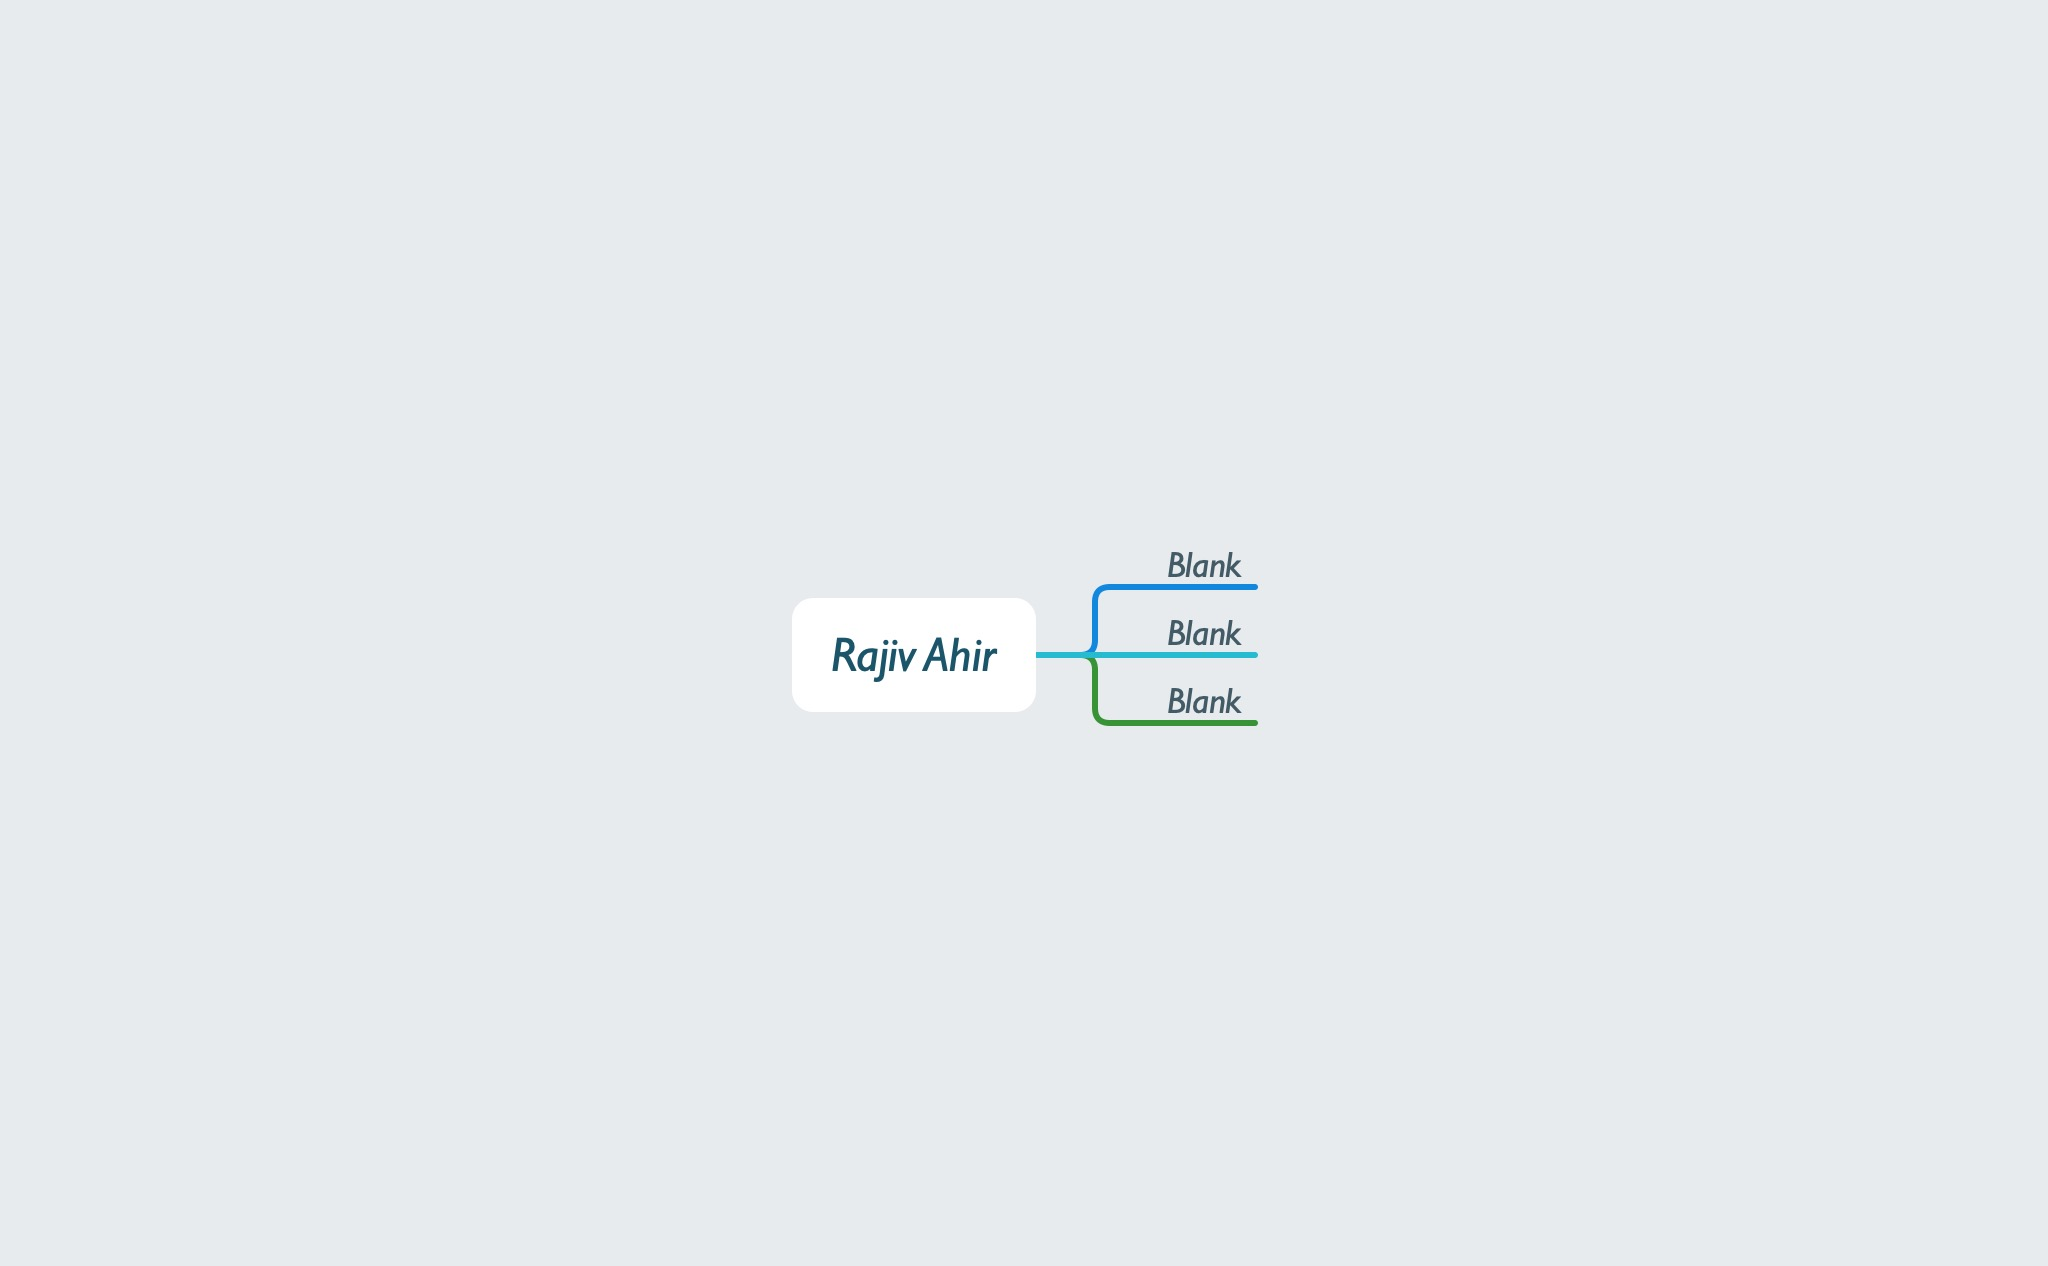
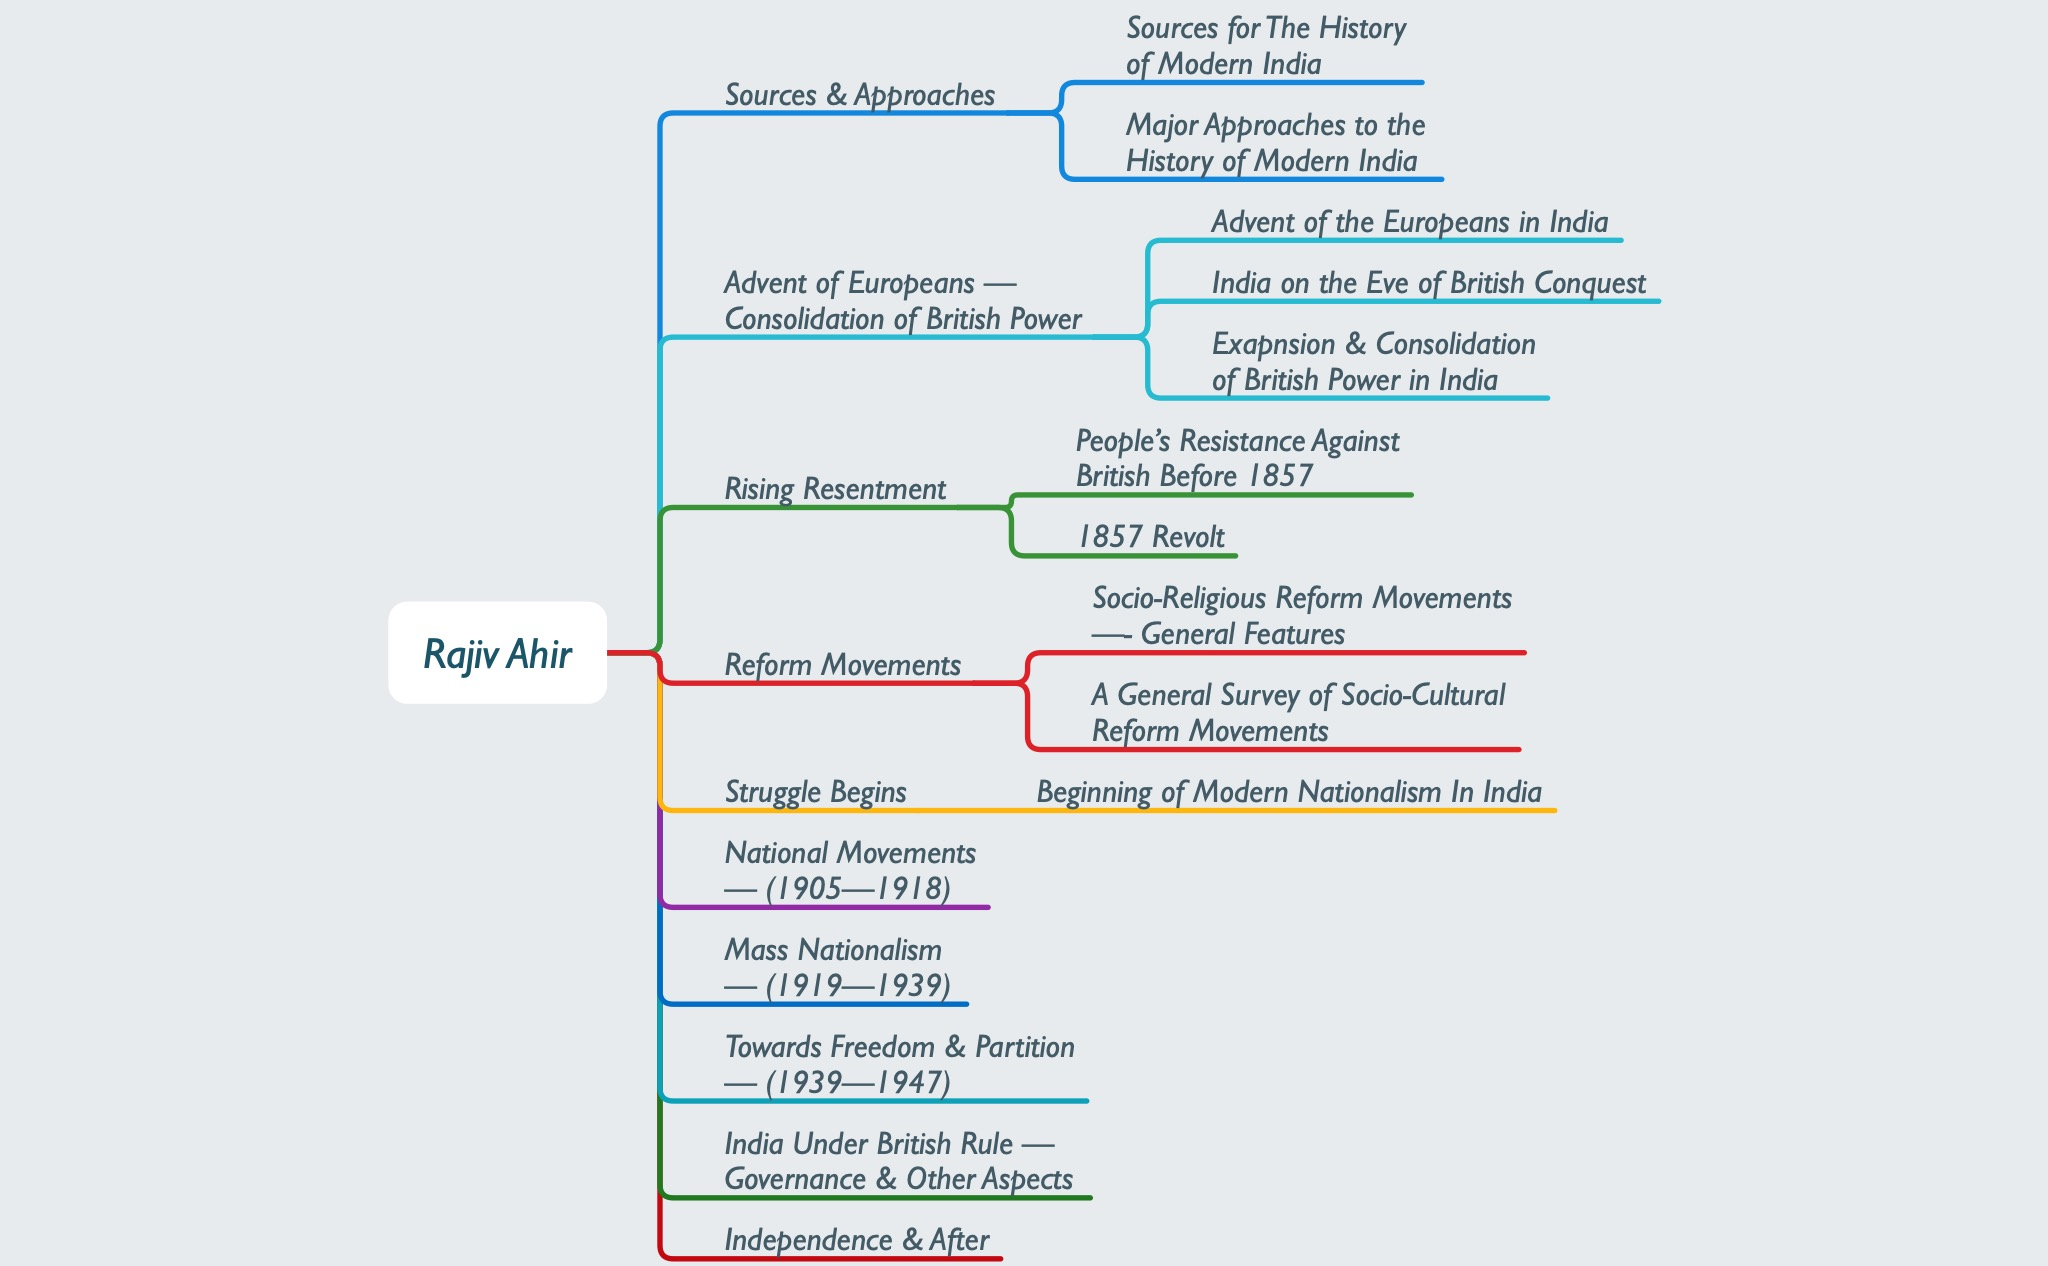
unit 1 headers

Changed region(s): [[0.3125, 0.0, 0.8125, 1.0], [0.1875, 0.4929, 0.2812, 0.5237]]

diff --git a/02_MIH/1_2-Approaches.md b/02_MIH/1_2-Approaches.md
@@ -1,0 +1,17 @@
+# Major Approaches to the History of Modern India
+
+## Colonial Approach
+
+## Nationalist Approach
+
+## Marxist Approach
+
+## Subaltern Approach
+
+## Communist Approach
+
+## Cambridge School
+
+## Liberal & Neo-Liberal Interpretations
+
+## Feminist Approach

diff --git a/02_MIH/1_1-History_Sources.md b/02_MIH/1_1-History_Sources.md
@@ -1,0 +1,13 @@
+# Sources for the History of Modern India
+
+## Archival Methods
+
+## Biographies, Memoirs & Travel Accounts
+
+## Newspapers & Journals
+
+## Oral Evidence
+
+## Creative Literature
+
+## Painting
